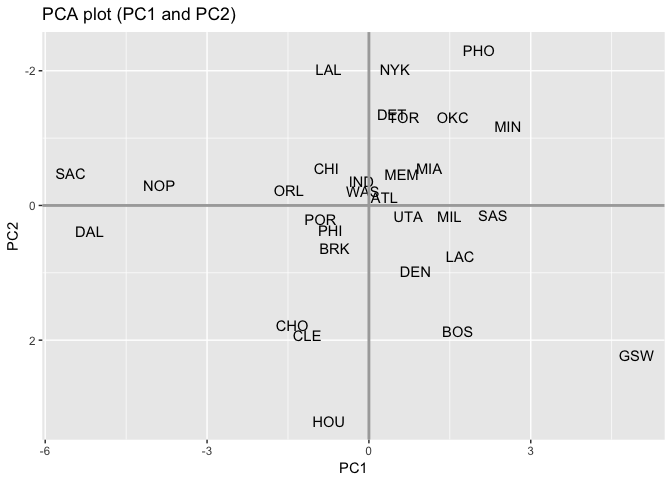
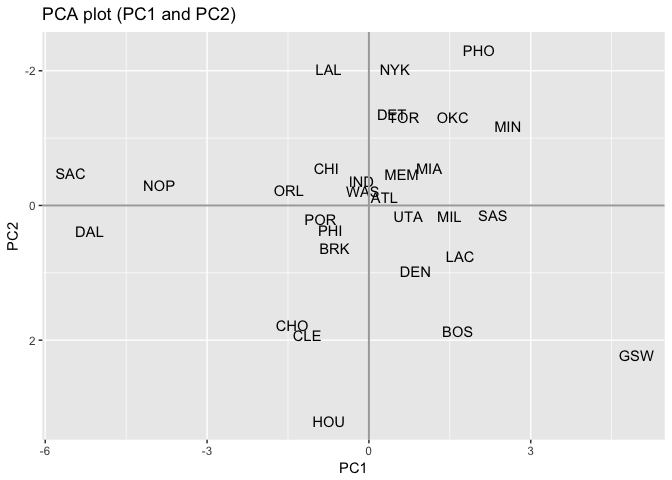
hw03: graph axes size fix

Changed region(s): [[0.0625, 0.4062, 0.9688, 0.4375]]

diff --git a/hw03/report/hw03-vitali-shypko.md b/hw03/report/hw03-vitali-shypko.md
@@ -151,8 +151,8 @@ ggplot(PC, aes(x = PC1, y = PC2)) +
   ylab('PC2') +
   ggtitle('PCA plot (PC1 and PC2)') +
   geom_text(aes(label = team)) +
-  geom_hline(yintercept = 0, colour = 'darkgray', size = 1) +
-  geom_vline(xintercept = 0, colour = 'darkgray', size = 1) +
+  geom_hline(yintercept = 0, colour = 'darkgray', size = 0.7) +
+  geom_vline(xintercept = 0, colour = 'darkgray', size = 0.7) +
   scale_y_reverse()
 ```
 
